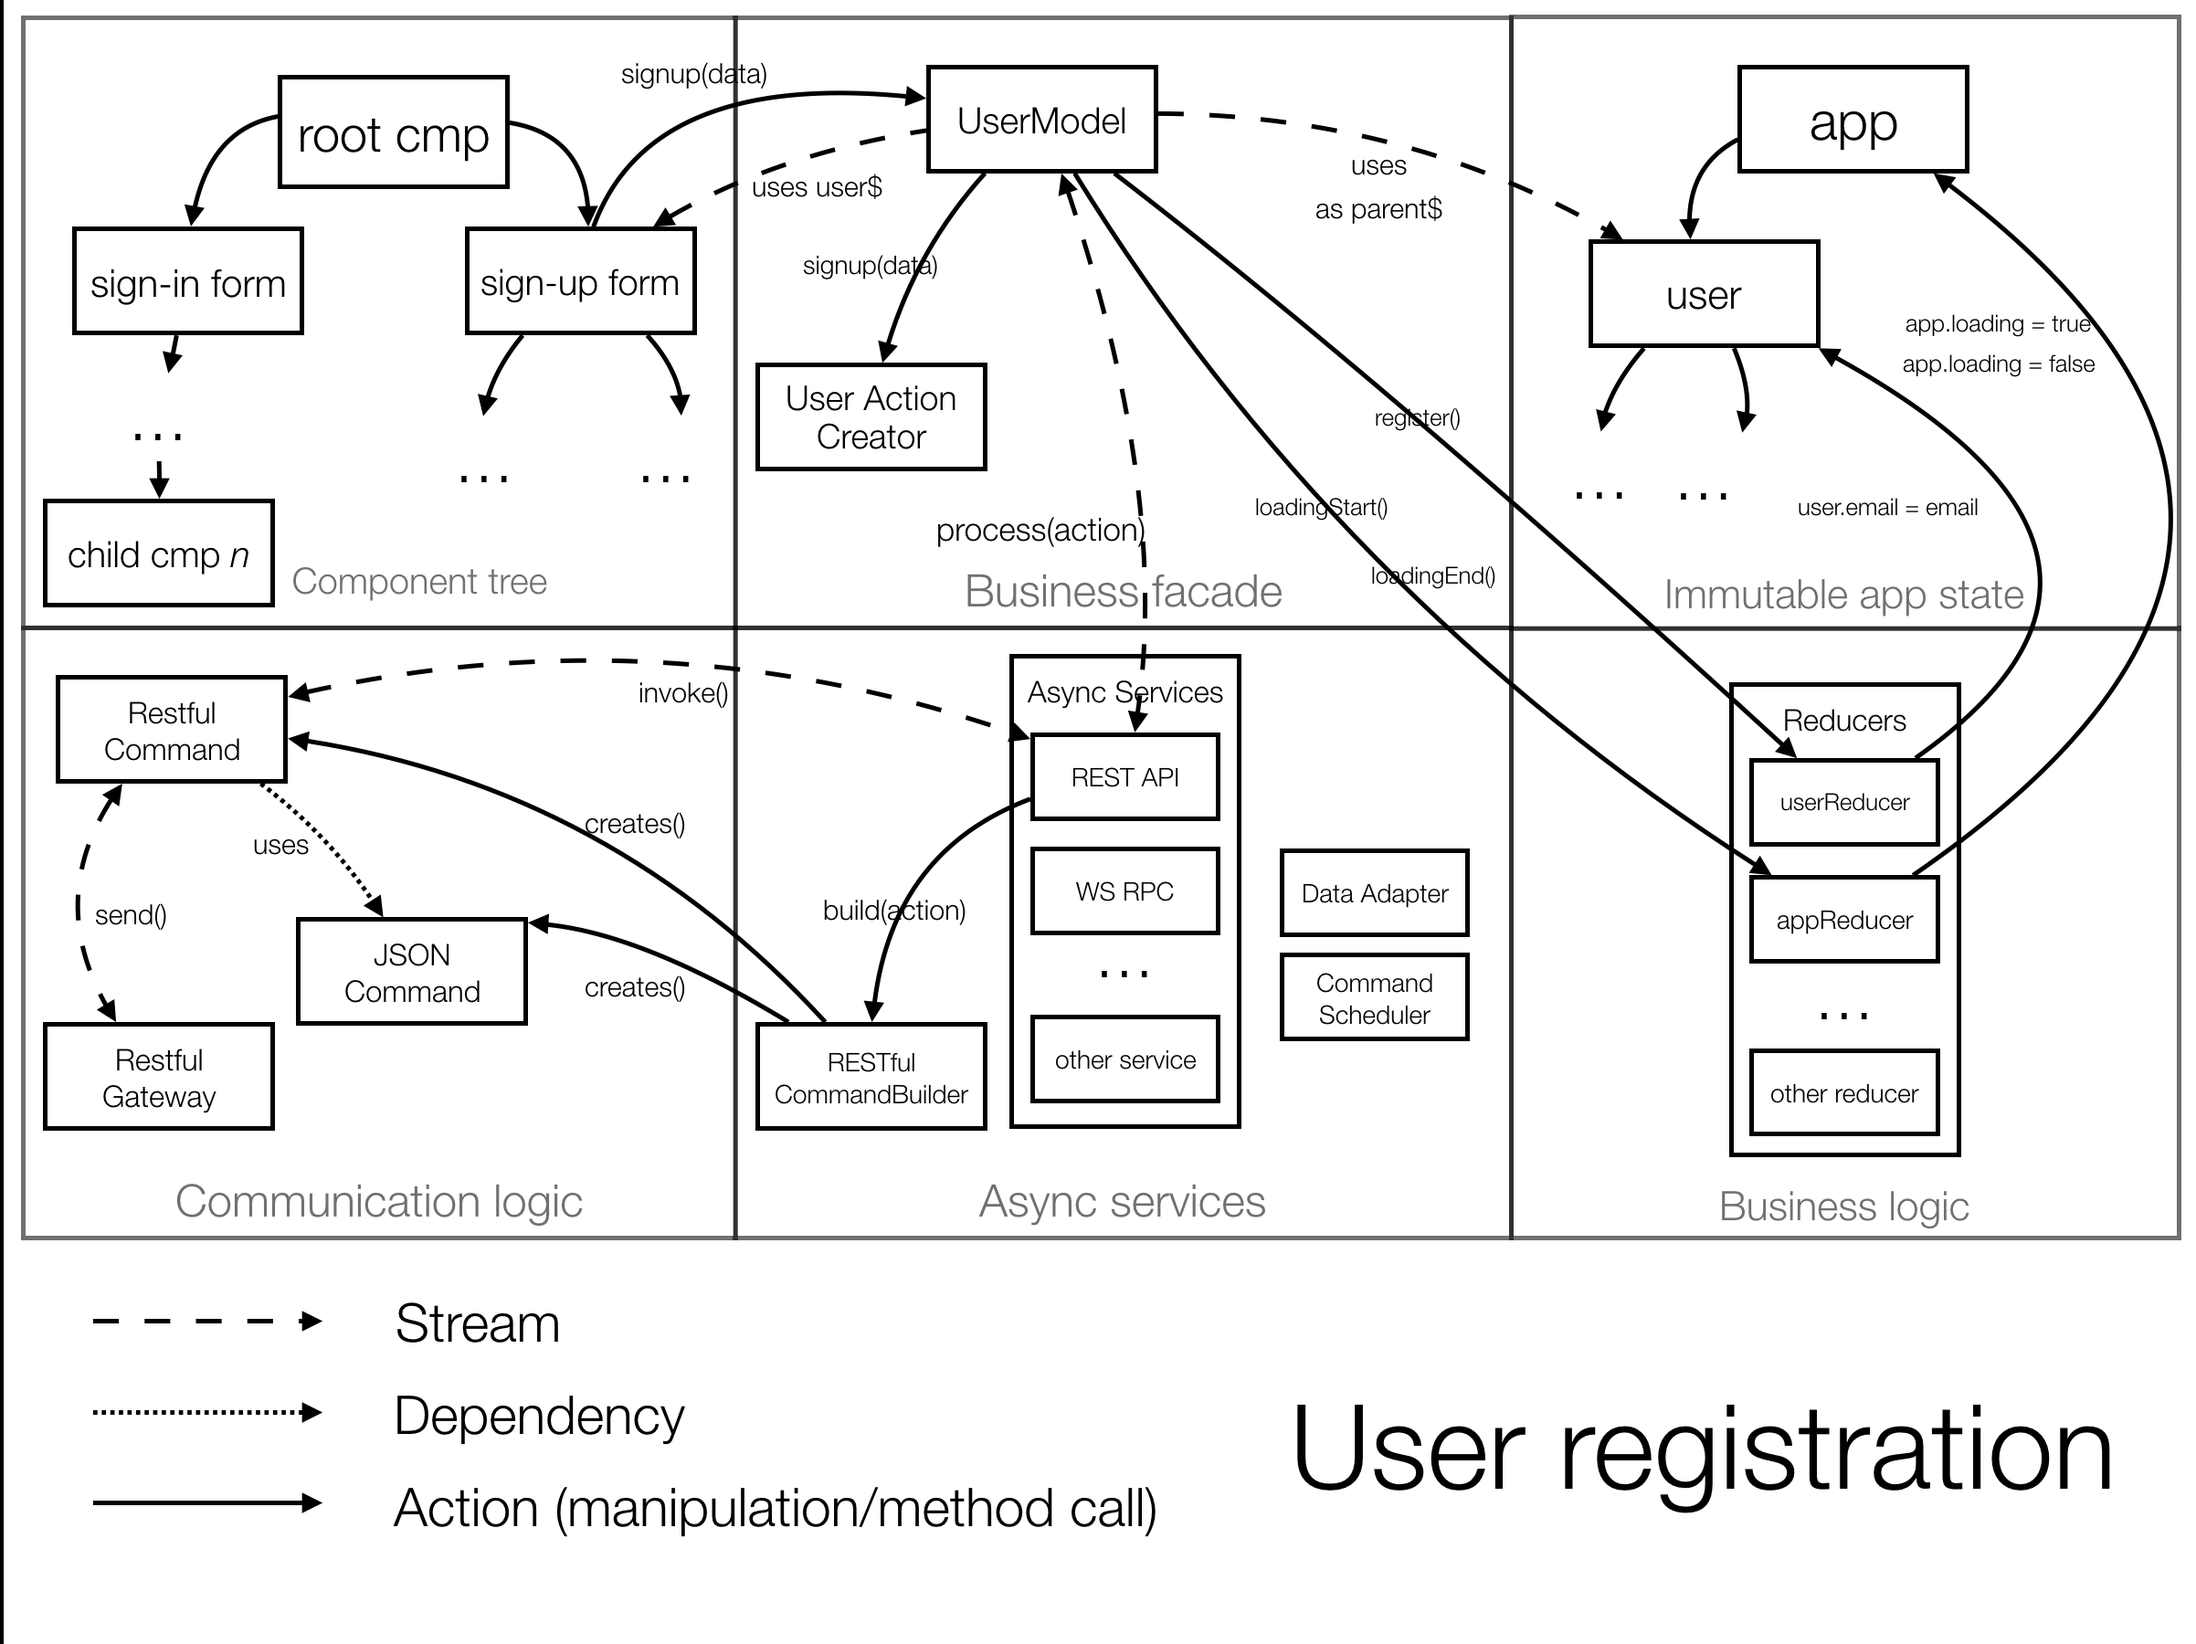
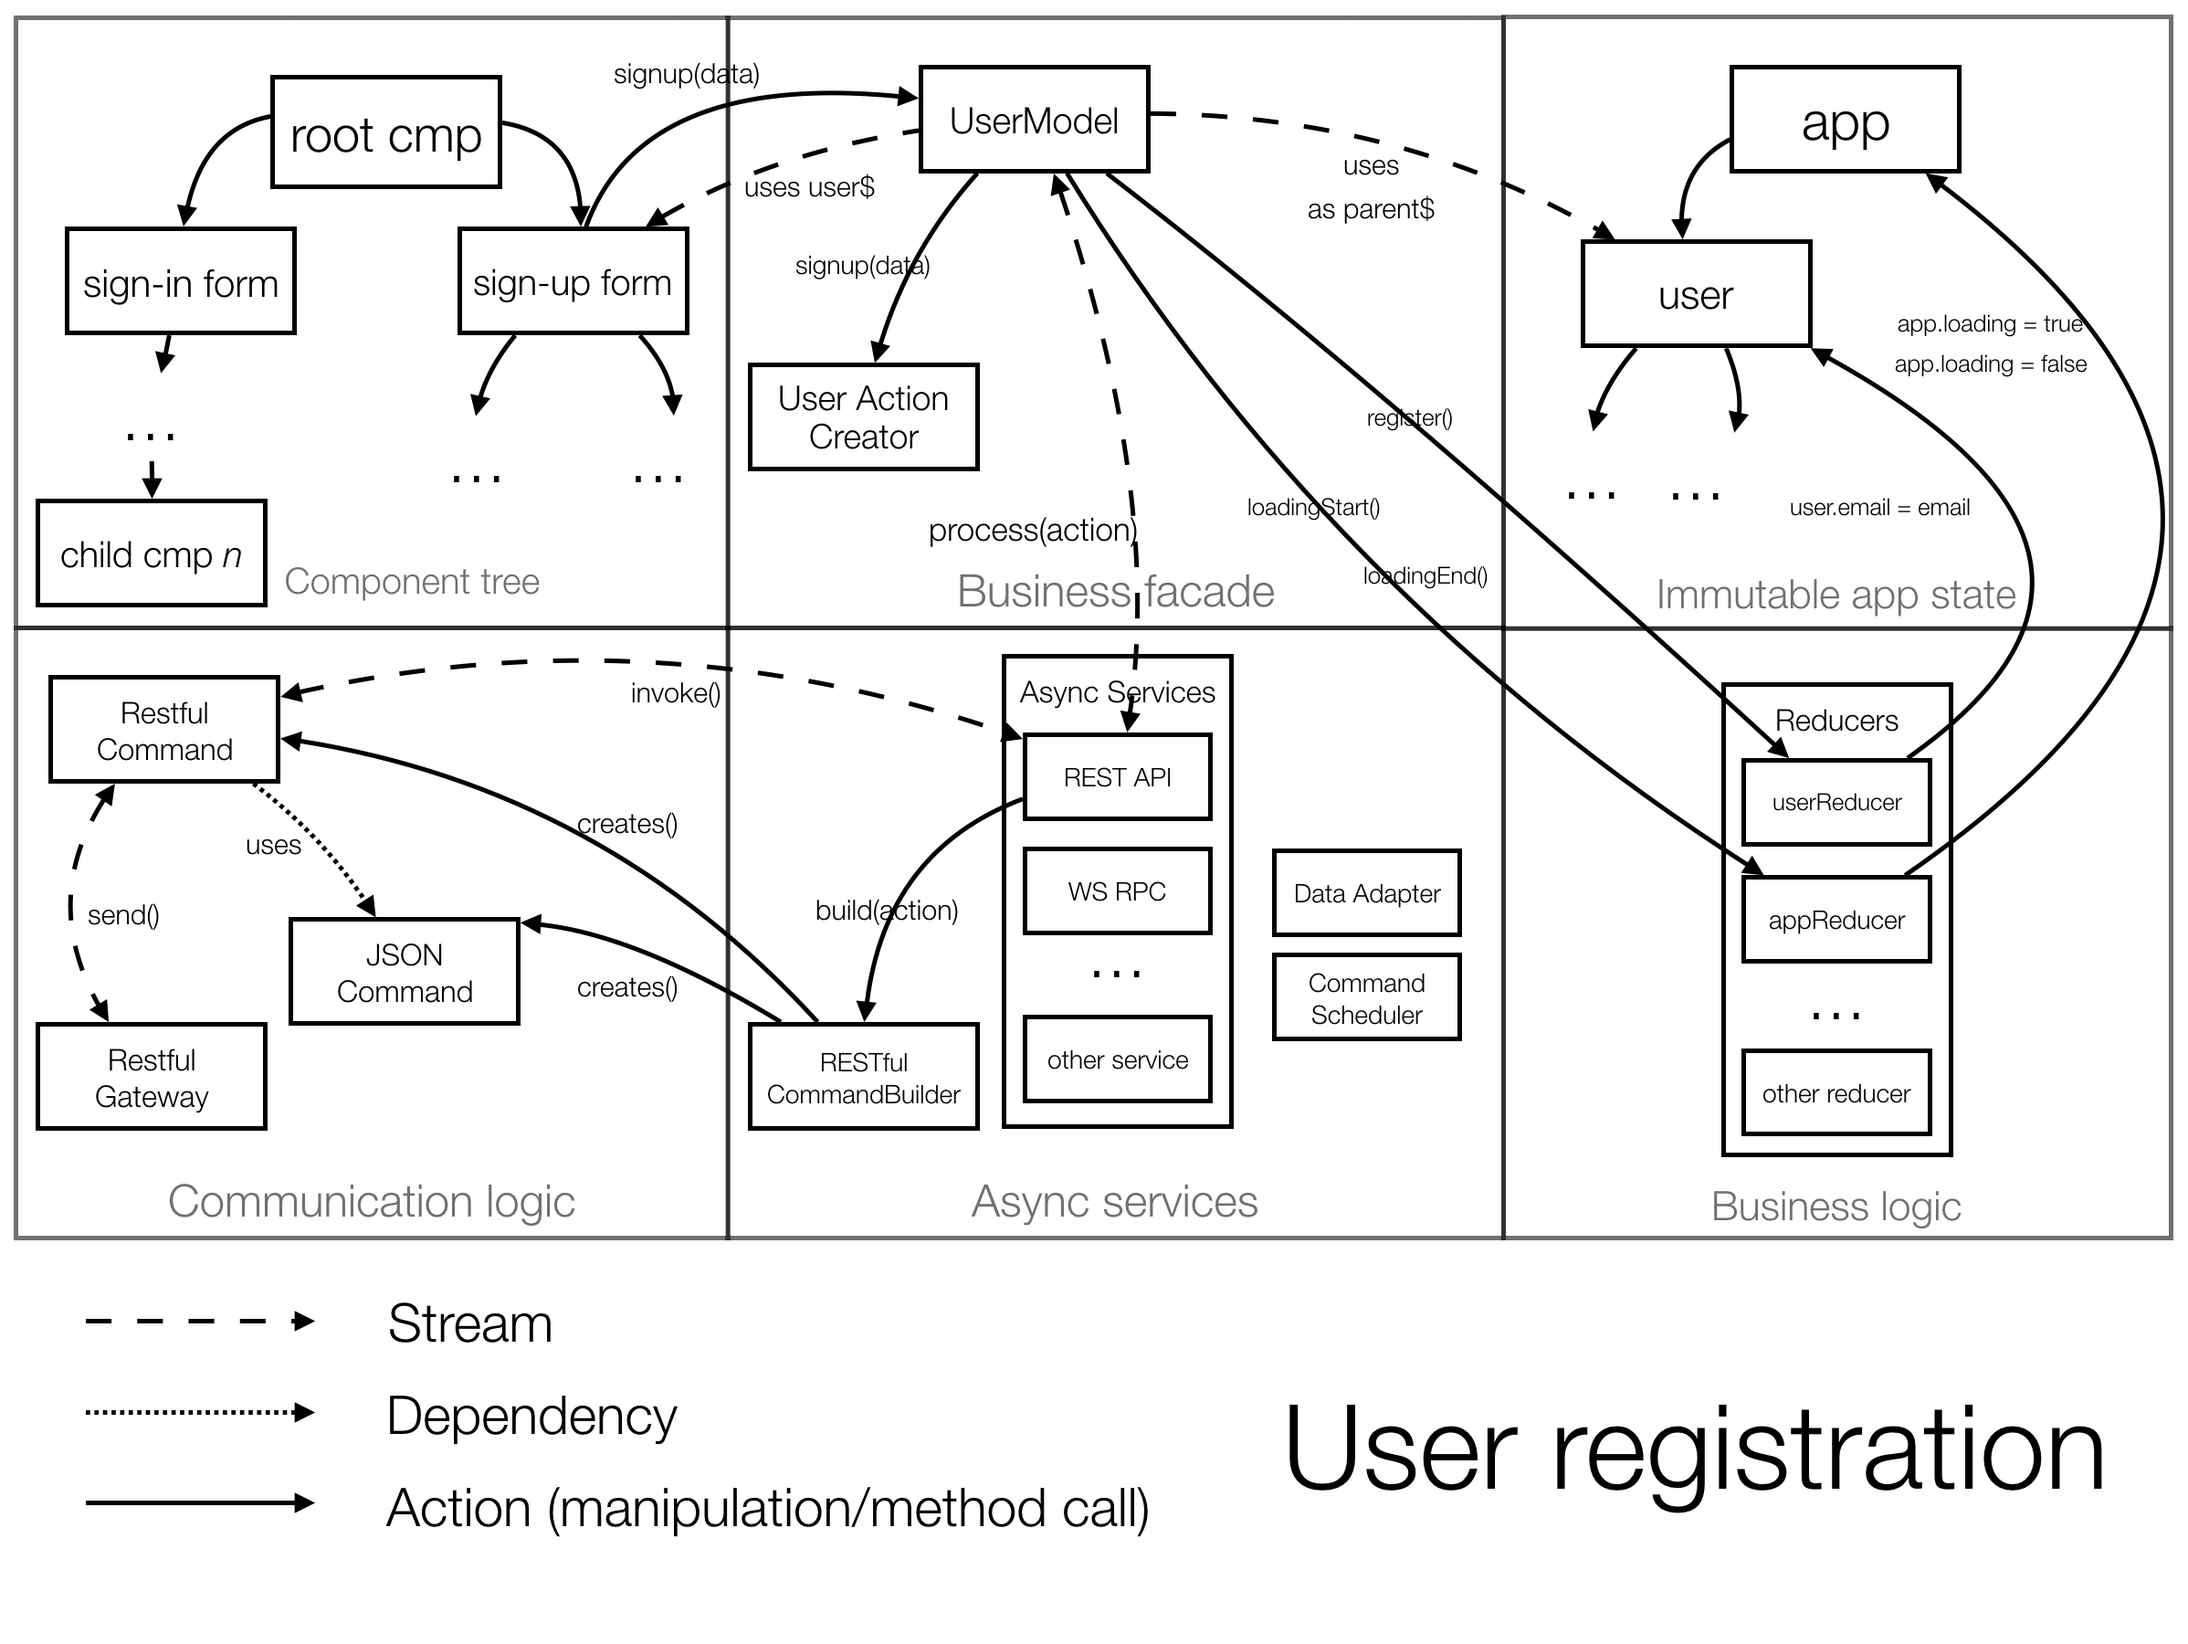
Add recap

diff --git a/_posts/2016-04-10-scalable-javascript-single-page-app-angular2-application-architecture.md b/_posts/2016-04-10-scalable-javascript-single-page-app-angular2-application-architecture.md
@@ -514,7 +514,7 @@ This way, when the `GameModel` is used in the context of the `MultiPlayerCompone
 
 ## Recap
 
-The diagram below ilustrates a sample use case of the application - user login scenario.
+The diagram below ilustrates a sample use case of the application - user registration scenario.
 
 ![](/images/scalable-app/arch.png)
 
